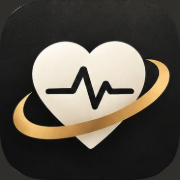
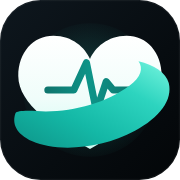
更新狂野生长最新图标，优化抓取链支持直连与强制更新

diff --git a/js/modules/icon-fetch.js b/js/modules/icon-fetch.js
@@ -21,9 +21,14 @@ const INDEX_TTL = 10 * 60 * 1000;   // 仓库图标清单缓存时长
 const SOURCE_TIMEOUT = 8000;        // 单个源最多等 8 秒；没有这道闸，一个挂死的源会让按钮一直转
 
 const SOURCES = [
-  (host) => `https://wsrv.nl/?url=${encodeURIComponent(`https://www.google.com/s2/favicons?domain=${host}&sz=128`)}&output=png&w=128&h=128`,
-  (host) => `https://wsrv.nl/?url=${encodeURIComponent(`https://${host}/favicon.ico`)}&output=png&w=128&h=128`,
-  (host) => `https://icon.horse/icon/${host}`,
+  // 1. 若目标站本身允许 CORS（如 Cloudflare Pages/Workers/部分现代静态站），直接读取官方高清原图
+  { url: (host) => `https://${host}/apple-touch-icon.png`, checkGeneric: () => false },
+  { url: (host) => `https://${host}/favicon.ico`, checkGeneric: () => false },
+  // 2. icon.horse 兜底服务（自带全域 CORS，支持 .xyz 等小众 TLD，未命中时占位图小于 3KB）
+  { url: (host) => `https://icon.horse/icon/${host}`, checkGeneric: (blob) => blob.size < 3000 },
+  // 3. wsrv.nl 代理 Google favicons 和站点 favicon.ico（部分 TLD 如 .xyz 会被 wsrv 策略拦截，故排在 direct / icon.horse 之后）
+  { url: (host) => `https://wsrv.nl/?url=${encodeURIComponent(`https://www.google.com/s2/favicons?domain=${host}&sz=128`)}&output=png&w=128&h=128`, checkGeneric: (blob) => blob.size < 1000 },
+  { url: (host) => `https://wsrv.nl/?url=${encodeURIComponent(`https://${host}/favicon.ico`)}&output=png&w=128&h=128`, checkGeneric: () => false },
 ];
 
 let index = null;   // { at, exact: Map(路径 → 文件), byBase: Map(去掉扩展名 → 路径) }
@@ -161,52 +166,58 @@ function sniffKind(bytes) {
 }
 
 /**
- * 给一个网址找图标：仓库里已有就复用，否则从带 CORS 的源抓一张存进暂存区
+ * 给一个网址找图标：非强制时若仓库里已有就复用，否则从可用源抓一张存进暂存区
+ * @param {string} url 目标网站网址
+ * @param {Object|boolean} [options] 传 options 对象（或布尔值 force）
+ * @param {boolean} [options.force=false] 是否强制从网络抓取最新图标（跳过现有图标复用）
  * @returns {Promise<{path:string, reused:boolean, dataUrl?:string, generic?:boolean}>}
- *          generic 为 true 表示只有兜底源命中，图可能只是通用图标，需人工核对
  */
-async function grab(url, token = getToken()) {
+async function grab(url, options = {}) {
+  const force = typeof options === 'boolean' ? options : !!(options && options.force);
   const host = hostOf(url);
   if (!host) throw new Error('网址要填完整（http:// 或 https:// 开头）');
 
-  try {
-    await loadIndex(false);
-  } catch (error) {
-    // 仓库清单读不到（断网 / 限流）不该拦住抓取，抓完照样能在本地看到
-    console.warn('读取仓库图标清单失败，跳过查重:', error);
+  if (!force) {
+    try {
+      await loadIndex(false);
+    } catch (error) {
+      // 仓库清单读不到（断网 / 限流）不该拦住抓取，抓完照样能在本地看到
+      console.warn('读取仓库图标清单失败，跳过查重:', error);
+    }
+    const reused = existingPath(host);
+    if (reused) return { path: reused, reused: true };
   }
-  const reused = existingPath(host);
-  if (reused) return { path: reused, reused: true };
 
   for (let i = 0; i < SOURCES.length; i += 1) {
+    const src = SOURCES[i];
+    const targetUrl = typeof src === 'function' ? src(host) : src.url(host);
     const controller = new AbortController();
     const timer = setTimeout(() => controller.abort(), SOURCE_TIMEOUT);
     try {
-      const res = await fetch(SOURCES[i](host), { mode: 'cors', cache: 'no-store', signal: controller.signal });
+      const res = await fetch(targetUrl, { mode: 'cors', cache: 'no-store', signal: controller.signal });
       if (!res.ok) continue;
       const type = res.headers.get('content-type') || '';
       if (!type.startsWith('image/')) continue;
       const blob = await res.blob();
-      if (blob.size < 200 || blob.size > 300 * 1024) continue;   // 1×1 的占位图 / 过大的图都不要
+      if (blob.size < 200 || blob.size > 500 * 1024) continue;   // 1×1 的占位图 / 过大的图都不要
       const kind = sniffKind(new Uint8Array(await blob.arrayBuffer()));
       if (!kind) continue;                                       // 认不出的格式换下一个源，别写错扩展名
       const path = `${ICON_DIR}/${baseFor(host)}.${kind.ext}`;
       const dataUrl = await blobToDataUrl(new Blob([blob], { type: kind.mime }));
       const base64 = dataUrl.slice(dataUrl.indexOf(',') + 1);
-      // 兜底源（icon.horse）给陌生域名发的是一张通用图标，骗过校验却不像真图标，得提醒一句
-      const generic = i === SOURCES.length - 1;
+      const generic = src.checkGeneric ? src.checkGeneric(blob) : false;
       if (!addPending(path, { dataUrl, base64, host, generic, at: Date.now() })) {
         throw new Error('浏览器存储满了，先推送或清掉草稿再抓');
       }
       return { path, reused: false, dataUrl, generic };
     } catch (error) {
       if (/存储满/.test(error.message)) throw error;
-      // 换下一个源（超时中断也走这里）
+      // 换下一个源（CORS 拦截、超时中断也走这里）
     } finally {
       clearTimeout(timer);
     }
   }
-  throw new Error('这个网站没给可用的图标，可以先留空或手填');
+  throw new Error('未能从网络获取到可用图标，可以先手动填写图片直链');
 }
 
 /**

diff --git a/js/modules/editor.js b/js/modules/editor.js
@@ -315,21 +315,32 @@ function openCardForm(target) {
     }
   }
 
-  async function onGrab() {
+  async function doGrab(force = false) {
     const raw = url.input.value.trim();
     if (urlKind(raw) !== 'http') { setGrabMsg('先把网址填成 http(s) 开头的完整地址', true); return; }
     grabBtn.disabled = true;
-    setGrabMsg('抓取中…', false);
+    setGrabMsg(force ? '重新抓取中…' : '抓取中…', false);
     try {
-      const got = await grab(raw);
+      const got = await grab(raw, { force });
       icon.input.value = got.path;
       showPreview(got.path);
-      // 这一次是兜底图才需要补救入口；换成好图之后要收回去，别一直杵在那
       const needRescue = !got.reused && !!got.generic;
       showRescue(needRescue);
-      if (got.reused) setGrabMsg('仓库里已经有这张图标了，直接用');
-      else if (needRescue) setGrabMsg('只从兜底服务拿到一张通用图标，多半不是这个网站的，建议换一张', true);
-      else setGrabMsg('已抓到，推送时和 data.json 一起提交');
+      if (got.reused) {
+        setGrabMsg('');
+        const span = el('span', '', '仓库已有此图标。');
+        const reBtn = el('button', 'edit-inline-btn', '强制重新抓取');
+        reBtn.type = 'button';
+        reBtn.onclick = (e) => {
+          e.preventDefault();
+          doGrab(true);
+        };
+        grabMsg.append(span, reBtn);
+      } else if (needRescue) {
+        setGrabMsg('只从兜底服务拿到一张通用图标，多半不是这个网站的，建议换一张', true);
+      } else {
+        setGrabMsg(force ? '已从网络获取最新图标，推送时将覆盖仓库旧图' : '已抓到，推送时和 data.json 一起提交');
+      }
     } catch (err) {
       setGrabMsg(err.message, true);
       showRescue(true);   // 一张都没抓到的时候，这条路最有用
@@ -337,6 +348,13 @@ function openCardForm(target) {
       grabBtn.disabled = false;
     }
   }
+
+  async function onGrab() {
+    const currentIcon = icon.input.value.trim();
+    const shouldForce = !isNew && !!currentIcon && currentIcon.startsWith('icons/');
+    await doGrab(shouldForce);
+  }
+
 
   const actions = el('div', 'edit-actions');
   if (!isNew) {

diff --git a/css/main.css b/css/main.css
@@ -1036,6 +1036,20 @@ body.edit-open {
 .edit-link:hover {
   text-decoration: underline;
 }
+.edit-inline-btn {
+  display: inline;
+  margin-left: 0.35rem;
+  padding: 0;
+  border: none;
+  background: none;
+  color: var(--primary);
+  font-size: inherit;
+  cursor: pointer;
+  text-decoration: underline;
+}
+.edit-inline-btn:hover {
+  opacity: 0.8;
+}
 
 /* 推送抽屉里的分块：连接状态 / 本次要提交的内容 */
 .edit-conn {
